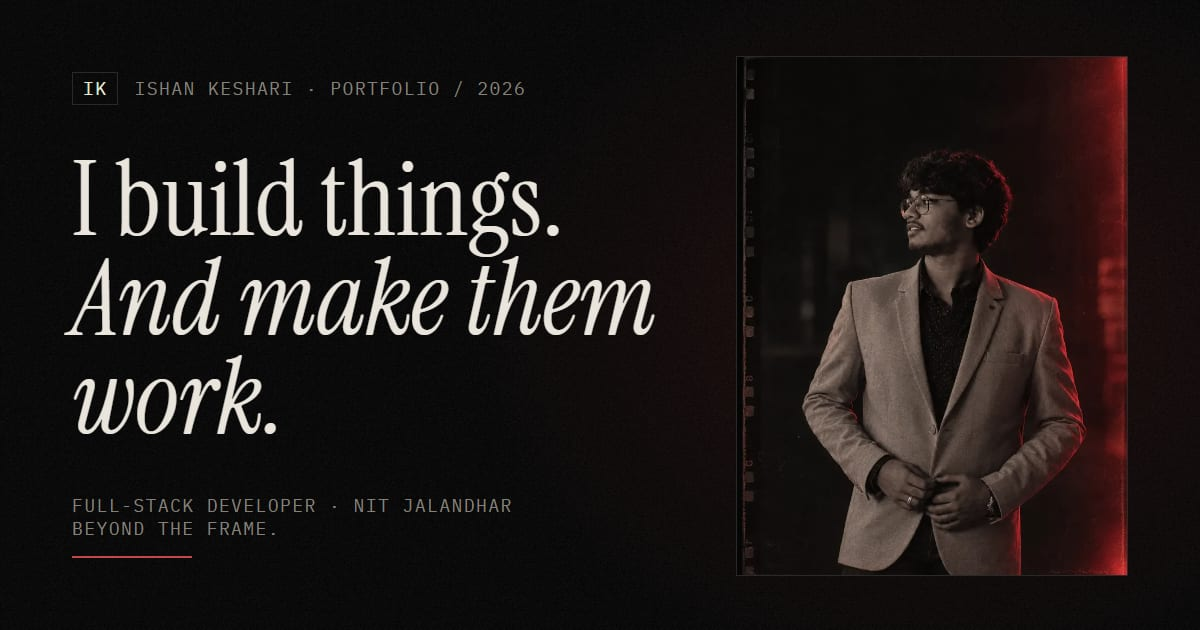
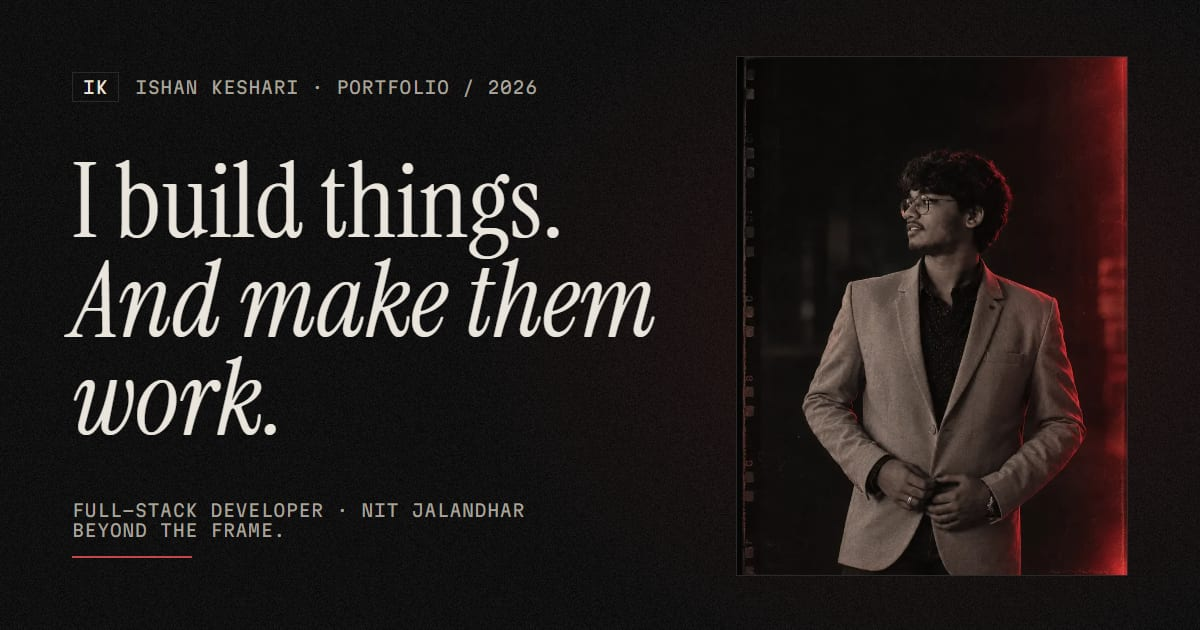
About: full-width text and stats board; correct screenshot alt texts; refresh share image

diff --git a/src/sections/About.jsx b/src/sections/About.jsx
@@ -43,21 +43,21 @@ export default function About() {
     <section id="about" data-tone="rose" ref={scope} aria-labelledby="about-title" className="wrap py-24 lg:py-40">
       <SectionHead id="about-title" frame="FR.03 · About" meta={<Mark mark="will" />}>Behind the <em>lens.</em></SectionHead>
 
-      <div className="mt-12 grid gap-12 lg:grid-cols-12 lg:gap-12">
-        <div className="about-copy space-y-10 lg:col-span-7">
+      <div className="mt-12 space-y-12">
+        <div className="about-copy space-y-10">
           <p className="text-lg leading-relaxed text-silver/90">{bio.about}</p>
           <blockquote className="border-l-2 border-safelight-bright pl-6 font-display text-2xl leading-snug md:text-3xl">
             {bio.approach}
           </blockquote>
         </div>
 
-        <aside aria-labelledby="exposure-title" className="exposure glass rounded-3xl p-6 md:p-8 lg:col-span-5 lg:self-start">
+        <aside aria-labelledby="exposure-title" className="exposure glass rounded-3xl p-6 md:p-8">
           <div className="flex items-baseline justify-between gap-4">
             <h3 id="exposure-title" className="label text-silver">Exposure data</h3>
             <p className="label text-ash">Updated {gh.updatedAt}</p>
           </div>
 
-          <dl className="mt-6">
+          <dl className="mt-6 lg:grid lg:grid-cols-2 lg:gap-x-16">
             {board.map(([label, n]) => (
               <div key={label} className="flex items-center justify-between gap-4 border-b border-silver/10 py-4">
                 <dt className="label max-w-[7rem] text-ash sm:max-w-[9rem]">{label}</dt>

diff --git a/src/data/projects.js b/src/data/projects.js
@@ -65,7 +65,7 @@ export const projects = [
     // Web sizes made by scripts/images.mjs; the animated original stays at /media/darkroom.webp.
     img: { base: '/media/darkroom-poster', widths: [800, 1120], w: 1120, h: 700 },
     preview: '/media/darkroom.webp', // animated demo, swapped in while the print is on screen (desktop)
-    alt: 'The Darkroom photo editor with an image open and editing controls beside it',
+    alt: "Darkroom landing page: 'Edit photos in your browser', with a box to upload a photo",
   },
 
   // XCEED Learning: team project. Only features confirmed from Ishan's own commits are listed.
@@ -99,7 +99,7 @@ export const projects = [
     year: 2026,
     status: 'In use at NIT Jalandhar',
     img: { base: '/media/xceed-learning', widths: [800, 1600], w: 1600, h: 1200 }, // demo data only
-    alt: 'XCEED Learning notebook submission screen, auto-checked against test cases',
+    alt: 'XCEED Learning lab notebook with coding questions and passed test cases',
   },
 
   // Talking points from the README:
@@ -121,7 +121,7 @@ export const projects = [
     year: 2026,
     status: 'Live',
     img: { base: '/media/cinescope', widths: [800, 1280], w: 1280, h: 800 },
-    alt: 'CineScope home screen showing movie, TV and anime cards',
+    alt: 'CineScope home screen with a search prompt and a row of trending movie posters',
   },
 
   // Talking points (from the CV):
